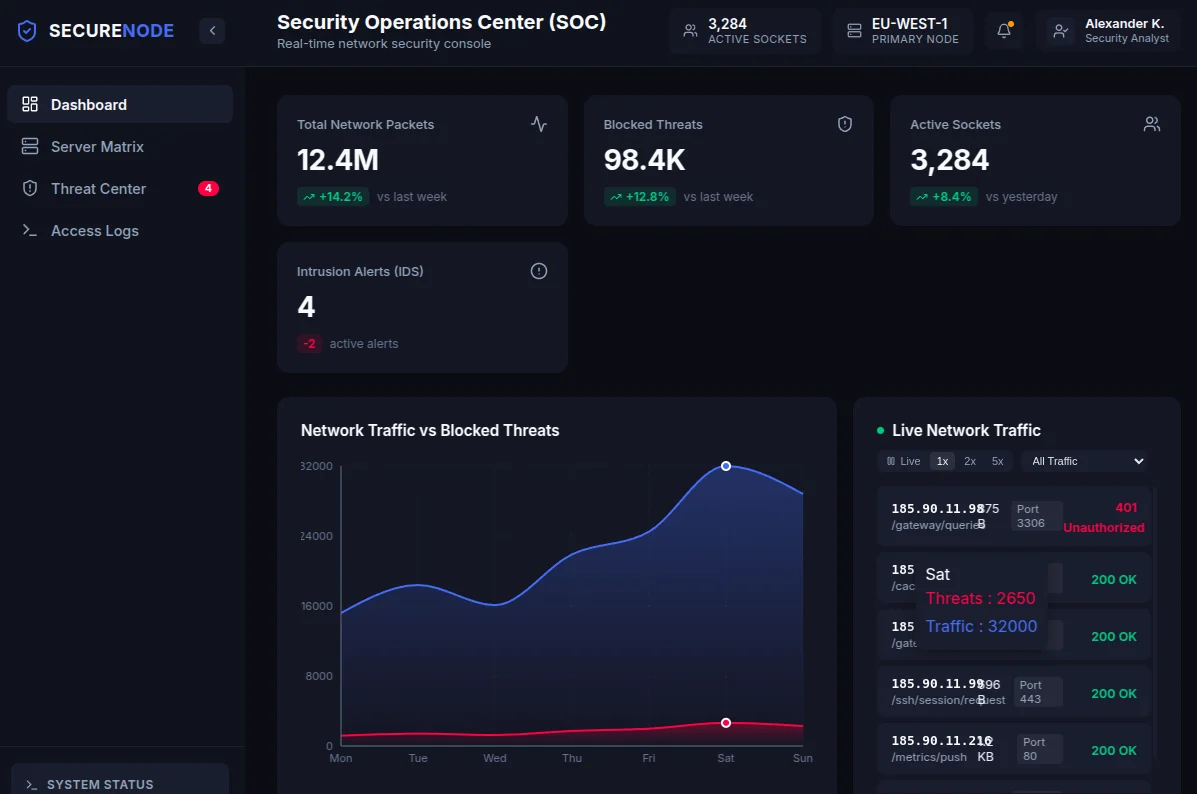
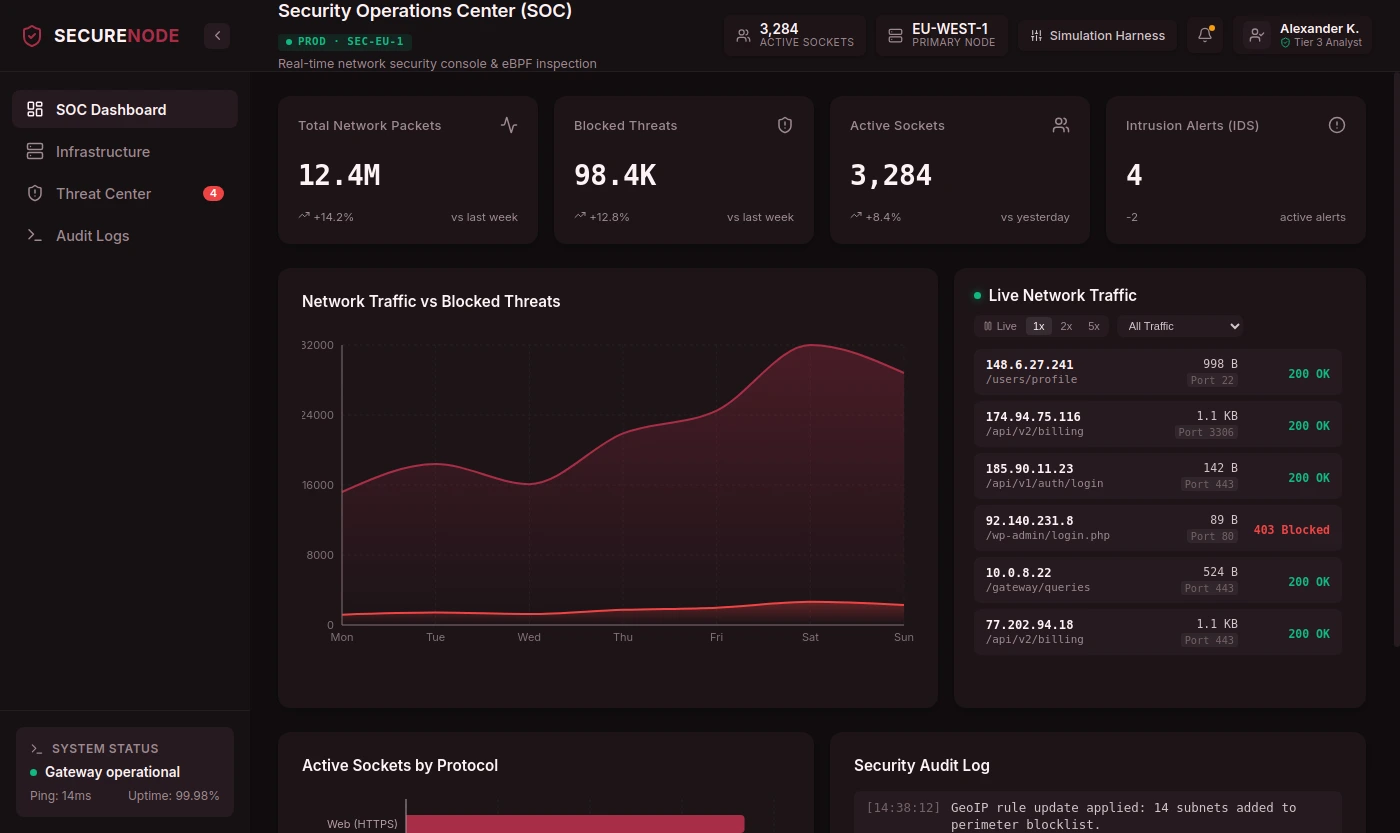
feat: update Cybersecurity Operations Center preview image and adjust project tech stacks

diff --git a/translations.js b/translations.js
@@ -48,7 +48,7 @@ const translations = {
       expandClosed: (count) => `Показать все проекты (ещё ${count})`,
       cards: {
         spinpulse: {
-          desc: "Игровое лобби слотов, краш-игр и live-столов на React 19 с демо-балансом, Web Audio API и быстрой мобильной загрузкой.",
+          desc: "Интерактивное игровое лобби слотов, краш-игр и live-столов с демо-балансом, Web Audio API звуковыми эффектами, Canvas и быстрой мобильной загрузкой 60 FPS.",
           visitAria: "Посетить сайт проекта SpinPulse VIP",
           githubAria: "Исходный код проекта SpinPulse VIP на GitHub"
         },
@@ -58,7 +58,7 @@ const translations = {
           githubAria: "Исходный код проекта NOVA Pay на GitHub"
         },
         security: {
-          desc: "Аналитический дашборд кибербезопасности на React 19 с интерактивной визуализацией сетевых метрик и инцидентов через Recharts.",
+          desc: "Аналитический дашборд кибербезопасности на React 19 и TypeScript с интерактивной визуализацией сетевых метрик и инцидентов через Recharts.",
           visitAria: "Посетить сайт проекта Cybersecurity Operations Center",
           githubAria: "Исходный код проекта Cybersecurity Operations Center на GitHub"
         },
@@ -68,7 +68,7 @@ const translations = {
           githubAria: "Исходный код проекта GameVault на GitHub"
         },
         techwear: {
-          desc: "Концептуальный PWA веб-магазин тактической одежды с 3D-конфигуратором экипировки, Web Audio API синтезатором и Canvas-терминалом.",
+          desc: "Концептуальный PWA веб-магазин тактической одежды на React 19 и TypeScript с 3D-конфигуратором экипировки и Web Audio API.",
           visitAria: "Посетить сайт проекта Techwear Store",
           githubAria: "Исходный код проекта Techwear Store на GitHub"
         },
@@ -175,7 +175,7 @@ const translations = {
       expandClosed: (count) => `Show all projects (${count} more)`,
       cards: {
         spinpulse: {
-          desc: "High-end iGaming casino lobby simulator on React 19 featuring demo balance, Web Audio API sound effects, and fast mobile performance.",
+          desc: "Interactive iGaming slot and crash game lobby simulator with virtual demo balance, Web Audio API sound engine, HTML5 Canvas, and ultra-fast 60 FPS mobile UI.",
           visitAria: "Visit SpinPulse VIP project website",
           githubAria: "Source code of SpinPulse VIP on GitHub"
         },
@@ -185,7 +185,7 @@ const translations = {
           githubAria: "Source code of NOVA Pay on GitHub"
         },
         security: {
-          desc: "Cybersecurity analytics dashboard built with React 19, featuring interactive network metrics visualization and incident tracking via Recharts.",
+          desc: "Cybersecurity analytics dashboard built with React 19 and TypeScript, featuring interactive network metrics visualization and incident tracking via Recharts.",
           visitAria: "Visit Cybersecurity Operations Center website",
           githubAria: "Source code of Cybersecurity Operations Center on GitHub"
         },
@@ -195,7 +195,7 @@ const translations = {
           githubAria: "Source code of GameVault on GitHub"
         },
         techwear: {
-          desc: "Conceptual PWA tactical apparel web store with a 3D gear configurator, Web Audio API synthesizer, and Canvas terminal.",
+          desc: "Conceptual PWA tactical apparel web store built with React 19 and TypeScript, featuring a 3D gear configurator and Web Audio API synthesizer.",
           visitAria: "Visit Techwear Store website",
           githubAria: "Source code of Techwear Store on GitHub"
         },

diff --git a/index.html b/index.html
@@ -482,10 +482,10 @@
               <div class="projects__info">
                 <h3 class="projects__info-title">SpinPulse VIP</h3>
                 <p class="projects__info-desc" data-i18n="projects.cards.spinpulse.desc">
-                  Игровое лобби слотов, краш-игр и live-столов на React 19 с демо-балансом, Web Audio API и быстрой мобильной загрузкой.
+                  Интерактивное игровое лобби слотов, краш-игр и live-столов с демо-балансом, Web Audio API звуковыми эффектами, Canvas и быстрой мобильной загрузкой 60 FPS.
                 </p>
                 <span class="projects__info-tech"
-                  >React 19, TypeScript, Tailwind 4, Web Audio</span
+                  >JavaScript (ES6+), Web Audio API, Canvas, CSS3, Vite</span
                 >
                 <div class="projects__link-container">
                   <a
@@ -625,10 +625,10 @@
                   Cybersecurity Operations Center
                 </h3>
                 <p class="projects__info-desc" data-i18n="projects.cards.security.desc">
-                  Аналитический дашборд кибербезопасности на React 19 с интерактивной визуализацией сетевых метрик и инцидентов через Recharts.
+                  Аналитический дашборд кибербезопасности на React 19 и TypeScript с интерактивной визуализацией сетевых метрик и инцидентов через Recharts.
                 </p>
                 <span class="projects__info-tech"
-                  >React 19, Recharts, Vite, Modern CSS</span
+                  >React 19, TypeScript, Recharts, Vite</span
                 >
                 <div class="projects__link-container">
                   <a
@@ -719,10 +719,10 @@
               <div class="projects__info">
                 <h3 class="projects__info-title">Techwear Store</h3>
                 <p class="projects__info-desc" data-i18n="projects.cards.techwear.desc">
-                  Концептуальный PWA веб-магазин тактической одежды с 3D-конфигуратором экипировки, Web Audio API синтезатором и Canvas-терминалом.
+                  Концептуальный PWA веб-магазин тактической одежды на React 19 и TypeScript с 3D-конфигуратором экипировки и Web Audio API.
                 </p>
                 <span class="projects__info-tech"
-                  >JavaScript, PWA, Web Audio, Vite</span
+                  >React 19, TypeScript, Web Audio, Vite, PWA</span
                 >
                 <div class="projects__link-container">
                   <a
